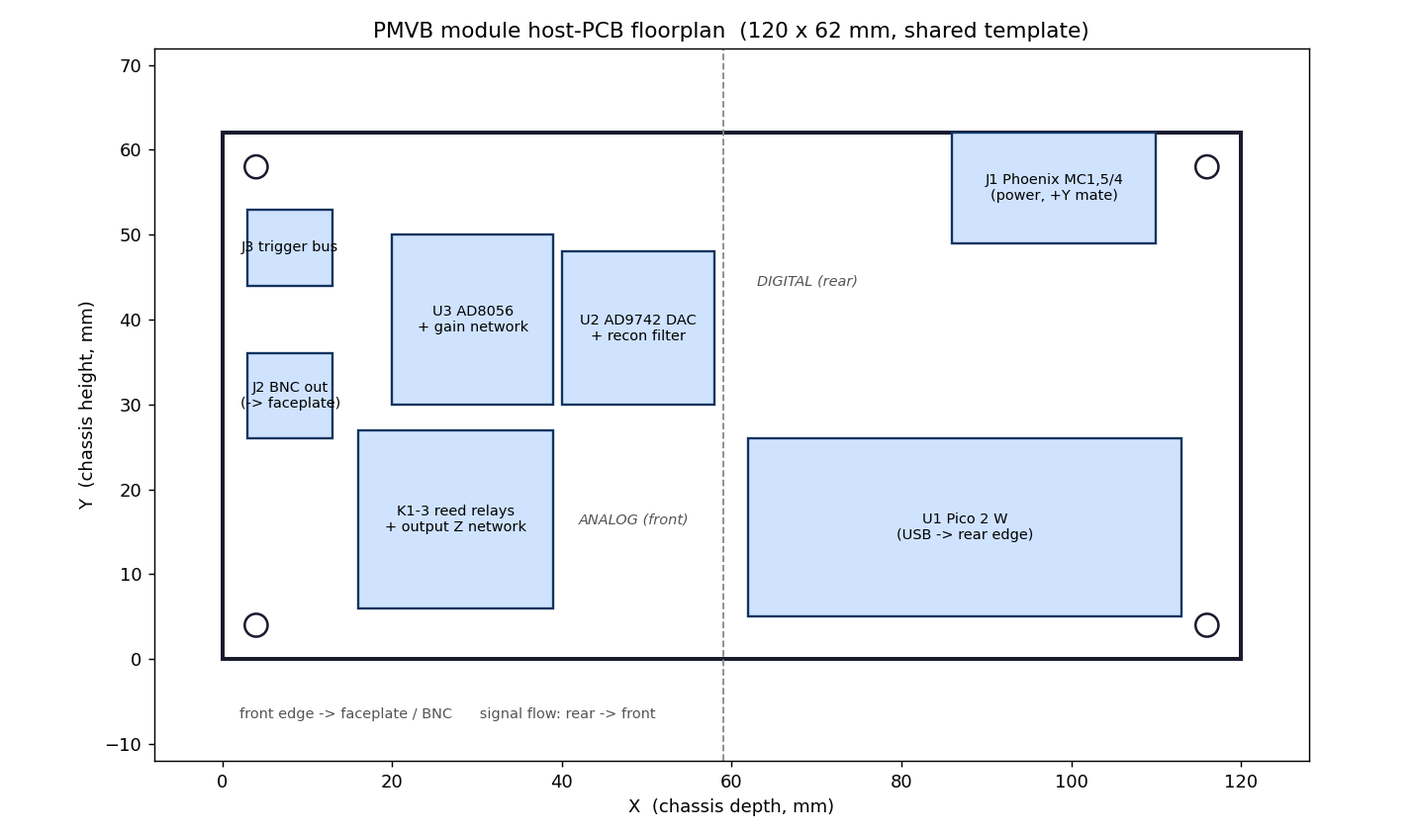
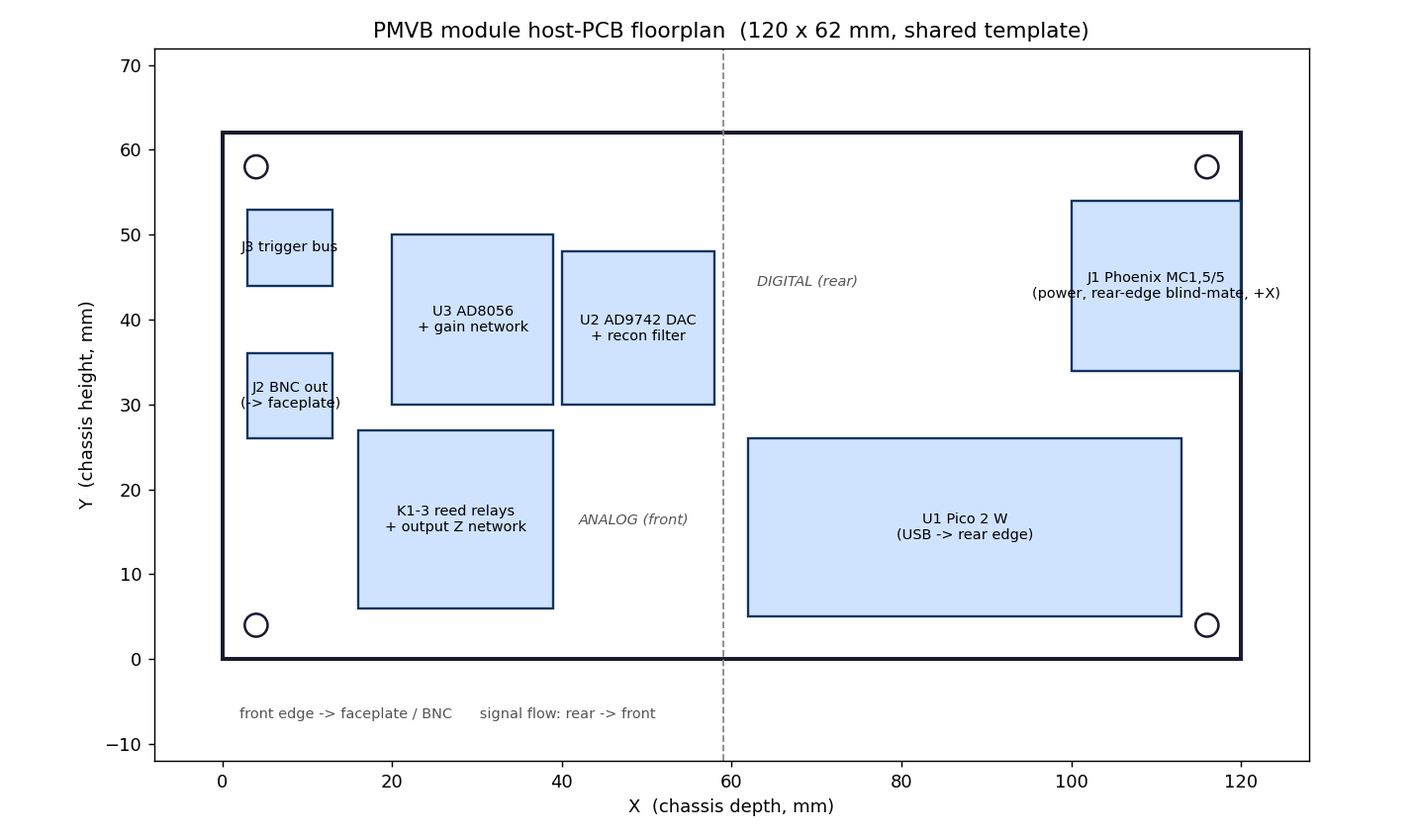
docs(1e): +3.3V from chassis Phoenix (5-pin), rear-edge blind-mate; doc v1.9
Power: DAC +3.3V (AVDD/DVDD) now from the chassis ATX rail via the GeeekPi
breakout on Phoenix pin 5, not the Pico 3V3_OUT (now unconnected). Decouples
the DAC analog supply from the Pico's switching regulator; FB1/FB2 unchanged.

Connector: 4-pin -> 5-pin MC 1,5/5-G-3,81 (1803303, Digi-Key 277-1209-ND;
plug MC 1,5/5-ST-3,81 / 1803604), relocated from top-edge drop-down to the
rear edge beside the USB for rearward blind-mate on insertion. Right-angle
unchanged. Pin order 1-5 = +5V, +12V, -12V, GND, +3.3V.

Propagated: PCB package (power table, interface spec, D3/D6, D1-D7 marked
resolved, status, v0.4->v0.5); module_pcb_outline.py (J1 to rear edge, DXF +
floorplan regenerated); design doc .md/.html (v1.8->v1.9); parts checklist
(5-pin 1803303); build guide (5-pin J1, Pico 3V3_OUT freed, +3V3 from J1.5).

Chassis follow-up (not in this commit, per scope): rework the back-wall
harness into a fixed rear-of-slot 5-rail blind-mate backplane.

Changed region(s): [[0.6462, 0.1538, 0.8923, 0.4615]]

diff --git a/docs/modules/Module_1E_Design_Document.html b/docs/modules/Module_1E_Design_Document.html
@@ -170,7 +170,7 @@ blockquote {
 </div>
 <h1 id="module-1e-function-generator-arbitrary-waveform-generator">Module 1E: Function Generator / Arbitrary Waveform Generator</h1>
 <h2 id="module-design-document">Module Design Document</h2>
-<p><strong>Version:</strong> 1.8 (June 2026, Figure 1E-6 reconstruction filter response (singly- vs doubly-terminated) added in section 1.5; former Figures 1E-6/1E-7 renumbered to 1E-7/1E-8) <strong>Module ID:</strong> 1E <strong>Tier:</strong> 1 <strong>Status:</strong> In Design <strong>Parent SDD section:</strong> 7.5.5 of the <a href="../system-design/System_Design_Document.html#module-1e-function-generator-arbitrary-waveform-generator">PMVB System Design Document</a></p>
+<p><strong>Version:</strong> 1.9 (June 2026, DAC +3.3 V supply moved from the Pico to the chassis Phoenix rail (J1.5); power connector now 5-pin rear-edge blind-mate - see PCB package sections 3 and 6) <strong>Module ID:</strong> 1E <strong>Tier:</strong> 1 <strong>Status:</strong> In Design <strong>Parent SDD section:</strong> 7.5.5 of the <a href="../system-design/System_Design_Document.html#module-1e-function-generator-arbitrary-waveform-generator">PMVB System Design Document</a></p>
 <hr />
 <h2 id="table-of-contents">Table of Contents</h2>
 <ul>
@@ -456,7 +456,7 @@ blockquote {
 <tbody>
 <tr><td>39</td><td>VSYS</td><td>5 V from chassis (USB-bus-powered via Pi 5 USB hub)</td></tr>
 <tr><td>38</td><td>GND</td><td>shared chassis ground</td></tr>
-<tr><td>36</td><td>3V3_OUT</td><td>for AD9742 AVDD/DVDD (after local LC filtering)</td></tr>
+<tr><td>36</td><td>3V3_OUT</td><td>not connected (DAC +3.3 V now from chassis Phoenix J1.5, not the Pico)</td></tr>
 </tbody>
 </table>
 <h3 id="ad9742-pinout-summary">AD9742 pinout summary</h3>
@@ -474,10 +474,10 @@ blockquote {
 <tr><td>21</td><td>IOUTB</td><td>25 Ω termination to AGND; reconstruction filter leg B input</td></tr>
 <tr><td>22</td><td>IOUTA</td><td>25 Ω termination to AGND; reconstruction filter leg A input</td></tr>
 <tr><td>23</td><td>RESERVED</td><td><strong>leave unconnected</strong> (per AD9742 datasheet Rev. C, do not tie to common or supply)</td></tr>
-<tr><td>24</td><td>AVDD</td><td>+3.3 V from Pico (through ferrite bead filter to AVDD)</td></tr>
+<tr><td>24</td><td>AVDD</td><td>+3.3 V from chassis (Phoenix J1.5) through ferrite bead filter to AVDD</td></tr>
 <tr><td>25</td><td>MODE</td><td>data-format strap: tie to DCOM for straight binary (this module), or to DVDD for twos complement. NOT a parallel/serial mode select.</td></tr>
 <tr><td>26</td><td>DCOM</td><td>digital ground</td></tr>
-<tr><td>27</td><td>DVDD</td><td>+3.3 V from Pico (through separate ferrite bead filter to DVDD)</td></tr>
+<tr><td>27</td><td>DVDD</td><td>+3.3 V from chassis (Phoenix J1.5) through separate ferrite bead filter to DVDD</td></tr>
 <tr><td>28</td><td>CLOCK</td><td>Pico GP12, sample clock latched on rising edge</td></tr>
 </tbody>
 </table>
@@ -604,7 +604,7 @@ awg.write('OUTP ON')
 <tr><td>Op-amp gain network resistors 1% 0805</td><td>Yageo RC0805FR-07 series</td><td>Digi-Key</td><td>(verify direct)</td><td>4</td><td>~$0.10</td><td>R_in1, R_in2, R_fb, R_ref</td></tr>
 <tr><td>Bypass cap 0.1 µF X7R 0603 50 V</td><td>Yageo CC0603KRX7R9BB104</td><td>Digi-Key</td><td>311-1366-1-ND (or equiv)</td><td>10</td><td>$0.08</td><td>per IC supply pin</td></tr>
 <tr><td>Bulk cap 10 µF X5R 0805 10 V</td><td>Yageo CC0805KKX5R8BB106 (or Murata GRM21BR71A106KA73L)</td><td>Digi-Key</td><td>(search direct)</td><td>4</td><td>(verify direct)</td><td>DAC, op-amp, +12V, -12V supply rails</td></tr>
-<tr><td>Ferrite bead 0805 ~600 Ω @ 100 MHz (FB1, FB2)</td><td>0805 ferrite bead</td><td>Digi-Key</td><td>(search direct)</td><td>2</td><td>(verify direct)</td><td>AVDD/DVDD supply filtering from Pico 3V3 (finding D4)</td></tr>
+<tr><td>Ferrite bead 0805 ~600 Ω @ 100 MHz (FB1, FB2)</td><td>0805 ferrite bead</td><td>Digi-Key</td><td>(search direct)</td><td>2</td><td>(verify direct)</td><td>AVDD/DVDD supply filtering from chassis +3.3 V (Phoenix J1.5; findings D3/D4)</td></tr>
 <tr><td>BNC panel-mount jack 50 Ω</td><td>Amphenol RF 031-5538</td><td>Digi-Key</td><td>031-5538</td><td>1</td><td>(verify direct)</td><td>front-panel output</td></tr>
 <tr><td>3D-printed enclosure</td><td>n/a</td><td>n/a</td><td>n/a</td><td>1</td><td>~$1</td><td>PETG print, ~10 g</td></tr>
 <tr><td>Hookup wire, headers, perfboard or custom PCB</td><td>various</td><td>various</td><td>various</td><td>n/a</td><td>TBD</td><td>full schematic in KiCad; PCB fab quote pending</td></tr>

diff --git a/hardware/library/module_pcb_outline.py b/hardware/library/module_pcb_outline.py
@@ -16,9 +16,10 @@ PCB-local coordinate frame (mm):
   X = chassis depth    0 = front edge (faceplate end)   120 = rear edge
   Y = chassis height   0 = bottom edge                   62 = top edge
 The PCB mounts vertically against the module-body cavity right wall; all
-components sit on the cavity-facing (left) copper. Connector positions follow
-chassis doc section 3.6. Outline size and connector zones are a v0 PROPOSAL
-to be co-designed with the v10 module-body STL - see the design package.
+components sit on the cavity-facing (left) copper. J1 Phoenix (5-position) sits
+at the rear edge beside the USB for rearward blind-mate on insertion. Outline
+size and PCB mounting are a proposal to co-design with the v10 module-body STL
+- see the design package.
 """
 
 import os
@@ -36,7 +37,7 @@ MOUNTS = [(MOUNT_INSET, MOUNT_INSET),
 
 # --- connector / block placement zones  (x0, y0, x1, y1, label) --------
 ZONES = [
-    (86.0, 49.0, 110.0, 62.0, "J1 Phoenix MC1,5/4\n(power, +Y mate)"),
+    (100.0, 34.0, 120.0, 54.0, "J1 Phoenix MC1,5/5\n(power, rear-edge blind-mate, +X)"),
     (62.0,  5.0, 113.0, 26.0, "U1 Pico 2 W\n(USB -> rear edge)"),
     (40.0, 30.0,  58.0, 48.0, "U2 AD9742 DAC\n+ recon filter"),
     (20.0, 30.0,  39.0, 50.0, "U3 AD8056\n+ gain network"),

diff --git a/hardware/modules/1E/Module_1E_PCB_Design_Package.md b/hardware/modules/1E/Module_1E_PCB_Design_Package.md
@@ -1,6 +1,6 @@
 # Module 1E PCB Design Package
 
-**Module:** 1E Function Generator / AWG **Version:** v0.4 (June 2026)
+**Module:** 1E Function Generator / AWG **Version:** v0.5 (June 2026)
 **Parent docs:** [Module 1E Design Document v1.7](../../../docs/modules/Module_1E_Design_Document.html),
 PMVB System Design Document section 7.5.5
 **Status:** all findings D1-D7 resolved (incl. the D2 filter synthesis and the D6 Phoenix P/N); KiCad project setup and schematic capture pending (you, in KiCad GUI). See `Module_1E_KiCad_Build_Guide.md`.
@@ -64,7 +64,7 @@ keeps the differential path balanced into the difference amplifier.
 
 **Resolved (June 2026):** a numerical 5th-order Butterworth synthesis was run against the real per-leg terminations. Source = the 25 ohm DAC termination; load = the op-amp's ~1 kohm input resistor (R4/R5), a 40:1 ratio that rules out a doubly-terminated ladder (it shows 6-11 dB of passband ripple). Each leg is therefore a **singly-terminated** 5th-order Butterworth: series inductors **0.22 uH / 0.68 uH / 0.22 uH** and shunt capacitors **820 pF** per leg (board total 4x 0.22 uH + 2x 0.68 uH + 4x 820 pF). Verified response: -3 dB at ~11 MHz, image rejection ~51 dB at 40 MHz (50 MSPS) and ~26 dB at 20 MHz (30 MSPS) - both meet spec; passband droop to 10 MHz is ~1.5 dB (worst ~2.3 dB at +/-5% parts), removed by the stored frequency-response calibration (design doc section 9.4). The cleaner doubly-terminated alternative (add a 25 ohm shunt load per leg for ~+/-0.5 dB flatness) was rejected: it halves the signal and needs op-amp gain 40, which drops the AD8056 closed-loop bandwidth to ~7.5 MHz, below the 10 MHz band. Values now carried in design doc sections 1.5/4/8.
 
-### D3 - Reed-relay coils run from the Phoenix +5 V rail
+### D3 - Reed-relay coils run from the Phoenix +5 V rail (RESOLVED)
 
 The design document specifies 5 V relay coils but does not say where the 5 V
 comes from. Two candidates: the Phoenix +5 V chassis rail, or the Pico's VBUS
@@ -73,11 +73,9 @@ comes from. Two candidates: the Phoenix +5 V chassis rail, or the Pico's VBUS
 **Decision:** Phoenix +5 V rail. It keeps the Pico's USB power budget clean
 (the Pico already streams DAC samples at 30-50 MSPS) and it matches the chassis
 architecture, where module power is delivered through the Phoenix connector.
-Consequence: Module 1E uses all four Phoenix pins (+5 V, +12 V, -12 V, GND),
-which is convenient because 1E is the board that locks the Phoenix interface
-spec for every other module.
+Consequence: Module 1E uses the Phoenix pins for +5 V, +12 V, -12 V, GND, and (as of the June 2026 revision) +3.3 V on a 5th pin for the DAC supply - so the connector is now the 5-position MC 1,5/5 (see D6 and section 6). 1E is the board that locks this interface for every other module.
 
-### D4 - AD9742 AVDD/DVDD fed through ferrite beads
+### D4 - AD9742 AVDD/DVDD fed through ferrite beads (RESOLVED)
 
 The design document calls for "local LC filtering" on the 3.3 V feed from the
 Pico to the DAC's AVDD and DVDD pins, decoupled separately. The realization is
@@ -85,10 +83,9 @@ one ferrite bead per rail (FB1 to AVDD, FB2 to DVDD) plus 0.1 uF and 10 uF
 decoupling. Ferrite bead plus capacitor is the standard practical form of that
 LC filter.
 
-**Note:** FB1 and FB2 are not in the design document BOM. Add them
-(2x ferrite bead, 0805, ~600 ohm at 100 MHz).
+**Resolved:** FB1 and FB2 (2x ferrite bead, 0805, ~600 ohm at 100 MHz) are now in the design-doc BOM. The 3.3 V they filter now comes from the chassis Phoenix rail (J1.5), not the Pico - see D3.
 
-### D5 - AD9742 pinout corrected against the datasheet
+### D5 - AD9742 pinout corrected against the datasheet (RESOLVED)
 
 RESOLVED. The AD9742 datasheet (Rev. C, Table 6, 28-lead SOIC/TSSOP) confirms
 the Module 1E Design Document's AD9742 pin table is wrong. The data bus (pins
@@ -123,18 +120,13 @@ of the build guide is the authoritative per-pin wiring contract.
 
 **Resolved:** the design document pin table (section 5) now carries this datasheet-correct pinout, so the two documents agree.
 
-### D6 - Phoenix header is right-angle = 1803293 (RESOLVED)
+### D6 - Phoenix is 5-pin right-angle 1803303, rear blind-mate (RESOLVED)
 
-The chassis architecture document mounts the module-side Phoenix header on the
-PCB top edge "pointing upward (+Z)", with the back-wall harness plug dropping
-"down onto this header from above". The host PCB mounts vertically (in the
-chassis Y-Z plane). For a plug to mate from +Z onto a header on a vertical PCB,
-the header must be a **right-angle** board header (mating axis in the plane of
-the PCB). (The naming here is counterintuitive and was misread in the first draft: 1803293 / MC 1,5/4-G-3,81 is in fact the **right-angle** part; the straight vertical variant is MCV 1,5/4-G-3,81 / 1803442.)
+The host PCB mounts vertically (in the chassis Y-Z plane). The connector is a **right-angle** board header (mating axis in the plane of the PCB). Naming is counterintuitive: in this family "MC ...-G" (no V) is the right-angle part and "MCV ...-G" is the straight vertical one. Two June 2026 changes supersede the original 4-pin top-drop scheme: (1) the +3.3 V rail moved onto the connector, so it is now **5-position**; (2) the header moves from the top edge to the **rear edge** beside the USB, mating rearward so it blind-mates onto a fixed rear-of-slot plug as the blade slides in (one insertion motion instead of slide-then-drop). The right-angle orientation is still correct: mating rearward is in the plane of the vertical board.
 
-**Decision (RESOLVED June 2026):** use Phoenix **MC 1,5/4-G-3,81, order no. 1803293** - verified via TME / Digi-Key / Octopart to be the right-angle / horizontal header (spatial orientation "angled 90 deg"), 8 A / 160 V, 4-pos 3.81 mm, THT. Mates with the harness plug MC 1,5/4-ST-3,81 (1803594). Digi-Key 277-1208-ND, ~$1.51 single-qty, in stock. The chassis BOM already lists 1803293, so no BOM part change is needed.
+**Decision (RESOLVED June 2026):** use Phoenix **MC 1,5/5-G-3,81, order no. 1803303** - the 5-position right-angle header (TME spec table "angled 90 deg", 5 pins, 8 A / 160 V, 3.81 mm, THT), Digi-Key 277-1209-ND, ~$1.84 single-qty, in stock. Harness plug: MC 1,5/5-ST-3,81, Phoenix 1803604 (Digi-Key 277-1164-ND). Pin order 1-5 = +5 V, +12 V, -12 V, GND, +3.3 V. (The 4-position 1803293 was the prior choice, before the +3.3 V rail and the blind-mate change.)
 
-**Action remaining:** correct the chassis document's description of 1803293 from "straight" to "right-angle (angled 90 deg)" - the listed part number is already correct, only the orientation wording was wrong. The footprint can now be locked; all 14 module PCBs inherit it (see section 6).
+**Chassis follow-up (tracked separately):** update the chassis doc's back-wall harness to (a) carry a 5th rail (+3.3 V from the GeeekPi breakout), (b) use the 5-position parts (header 1803303, plug 1803604), and (c) change from per-slot plugs dropped from above to fixed forward-facing plugs at the rear of each slot for blind-mate. The module-side footprint can be locked now; all 14 module PCBs inherit it (see section 6).
 
 ### D7 - Output impedance modes: drop 600 ohm, add high-Z (low-impedance source)
 
@@ -191,13 +183,11 @@ level summary follows.
 | `+12V` | Phoenix J1.2 | AD8056 V+ (U3.8), decoupling C9/C11 |
 | `-12V` | Phoenix J1.3 | AD8056 V- (U3.4), decoupling C10/C12 |
 | `GND` | Phoenix J1.4 | common return |
-| `+3V3` | Pico 3V3_OUT (U1.36) | DAC supply island via FB1/FB2, bulk C8/C15 |
+| `+3V3` | Phoenix J1.5 (chassis ATX 3.3 V via GeeekPi D-1188 breakout) | DAC supply island via FB1/FB2, bulk C8/C15 |
 | `AVDD` | FB1 from +3V3 | AD9742 AVDD (U2.24), decoupling C6/C16 |
 | `DVDD` | FB2 from +3V3 | AD9742 DVDD (U2.27), decoupling C7/C17 |
 
-The Pico is powered over its own micro-USB; VSYS and VBUS are not connected on
-the PCB. The Pico's 3V3_OUT is the only Pico power pin used by the board, and
-it feeds the DAC supply island only.
+The Pico is powered over its own micro-USB; VSYS and VBUS are not connected on the PCB. The DAC's +3V3 now comes from the Phoenix connector (J1.5, the chassis 3.3 V rail via the GeeekPi breakout), so the Pico's 3V3_OUT no longer feeds the board and is left unconnected. This decouples the DAC analog supply from the Pico's switching regulator. The Pico drives the parallel data bus at its own internal 3.3 V while the DAC DVDD is the chassis 3.3 V; with common GND and both near 3.3 V the logic levels have ample margin.
 
 ### Signal chain
 
@@ -255,7 +245,7 @@ These are the points worth working through before or during schematic capture.
 2. **AD9742 pinout (D5) - resolved.** Verified against the AD9742 datasheet
    Rev. C; the build guide and parts checklist carry the correct pin map.
    Only remaining action: patch the design document's own pin table to match.
-3. **Phoenix header style (D6) - resolved.** Right-angle = Phoenix 1803293 (MC 1,5/4-G-3,81), Digi-Key 277-1208-ND ~$1.51; it is already the chassis BOM part. The footprint can be locked.
+3. **Phoenix connector (D6) - resolved.** 5-position right-angle MC 1,5/5-G-3,81 (1803303, Digi-Key 277-1209-ND ~$1.84), rear-edge blind-mate, +3.3 V added on pin 5. Module footprint can be locked; the chassis harness redesign is a tracked follow-up.
 4. **PCB outline and mounting (section 5).** The 120 x 62 mm outline and the
    4x M2.5 hole pattern are a proposal. They must be co-designed with the v10
    module-body STL, which does not yet define PCB mounting bosses.
@@ -298,7 +288,7 @@ plane split under the DAC, joined at one point near the DAC ACOM/DCOM pins.
 
 | Ref | Connector | Position | Mating direction |
 |-----|-----------|----------|------------------|
-| J1 | Phoenix MC 1,5/4 power | top edge, rear corner | +Z (from above) |
+| J1 | Phoenix MC 1,5/5 power | rear edge, beside the USB | rearward (chassis +Y), blind-mate on insertion |
 | U1 micro-USB | Pico USB | rear edge | +Y (rearward, to USB hub) |
 | J2 / faceplate | BNC output | front edge | -X (out the faceplate) |
 
@@ -311,26 +301,21 @@ PCB and the future custom 4-rail distribution PCB must conform to it.
 
 | Property | Value |
 |----------|-------|
-| Connector family | Phoenix Contact MC 1,5 series, 3.81 mm pitch, 4 position |
-| Module-side part | Right-angle pluggable PCB header (see D6; P/N to confirm) |
-| Harness-side part | MC 1,5/4-ST-3,81 cable plug, Phoenix 1803594 |
+| Connector family | Phoenix Contact MC 1,5 series, 3.81 mm pitch, 5 position |
+| Module-side part | MC 1,5/5-G-3,81 right-angle PCB header, Phoenix 1803303 (Digi-Key 277-1209-ND) |
+| Harness-side part | MC 1,5/5-ST-3,81 cable plug, Phoenix 1803604 (Digi-Key 277-1164-ND) |
 | Pin 1 | +5 V |
 | Pin 2 | +12 V |
 | Pin 3 | -12 V |
 | Pin 4 | GND |
-| PCB location | Top edge, rear corner, on the shared outline |
-| Mating axis | Chassis +Z (harness plug drops on from above) |
-| Keep-out | Per `module_pcb_outline.dxf`, top-rear zone; clear of the rear-top M2.5 mounting hole |
+| Pin 5 | +3.3 V |
+| PCB location | Rear edge, beside the Pico USB, on the shared outline |
+| Mating axis | Rearward (chassis +Y) - blind-mates onto a fixed rear-of-slot plug as the blade slides in |
+| Keep-out | Per `module_pcb_outline.dxf`, rear-edge zone beside the USB; clear of the rear M2.5 mounting holes |
 
-Pin order matches the chassis back-wall harness (chassis doc 4.4). A module
-that does not need a given rail still passes that pin through the connector for
-uniformity; Module 1E happens to use all four. The keep-out in the shared
-outline was moved clear of the rear-top mounting hole, which the first-draft
-placement overlapped.
+Pin order matches the chassis back-wall harness (chassis doc 4.4), with the new +3.3 V on pin 5 so the original four-rail order is unchanged. A module that does not need a given rail still passes that pin through for uniformity; Module 1E uses all five. **Chassis follow-up:** the rearward blind-mate means the back-wall harness must change from per-slot plugs dropped on from above to fixed forward-facing plugs at the rear of each slot (the 5-rail distribution backplane, pulled forward from v1.1). That chassis-side rework is tracked separately; this package and the module PCB are specified for it.
 
-**Locking criterion:** once D6 (header style and P/N) is settled and the
-footprint exists, this table and the keep-out in `module_pcb_outline.dxf` are
-frozen. Changing them later means re-spinning every module PCB.
+**Locking criterion:** D6 is settled (5-pin 1803303, rear-edge blind-mate); once the footprint exists, this table and the keep-out in `module_pcb_outline.dxf` are frozen. Changing them later means re-spinning every module PCB.
 
 ---
 
@@ -400,6 +385,6 @@ against.
 
 ## 10. Status and next steps
 
-Done: all engineering findings D1 through D7 resolved, including the D2 filter synthesis and the D6 Phoenix P/N (1803293, right-angle); shared PCB outline and floorplan generated; Phoenix interface spec drafted; parts checklist and KiCad build guide authored; design-document inconsistencies caught and patched (gain, pinout, high-Z, filter values, ferrite beads).
+Done: all engineering findings D1 through D7 resolved. Latest revision (June 2026): the DAC +3.3 V now comes from the chassis Phoenix rail, the connector is the 5-position right-angle MC 1,5/5-G-3,81 (1803303), and it relocates to the rear edge for blind-mate on insertion. Shared PCB outline + floorplan generated (J1 now rear-edge); interface spec at 5-pin; parts checklist and KiCad build guide authored; design-document inconsistencies patched (gain, pinout, high-Z, filter values, ferrite beads, power source).
 
-Next, in rough order: confirm the PCB outline and mounting against the v10 module body; settle the Pico mount (headers vs direct-solder) and the J3 trigger-bus connector; fetch the five custom parts; build the KiCad project per the guide; capture the schematic; lay out the board. Per the README tracker, this closes "PCB design" and feeds into "PCB fab + assembly".
+Next, in rough order: the chassis back-wall harness blind-mate redesign (5-rail, fixed rear-of-slot plugs) is tracked as a follow-up; co-design the PCB mounting bosses with the v10 module body; settle the Pico mount (headers vs direct-solder) and the J3 trigger-bus connector; fetch the five custom parts; build the KiCad project per the guide; capture the schematic; lay out the board. Per the README tracker, this closes "PCB design" and feeds into "PCB fab + assembly".

diff --git a/docs/modules/Module_1E_Design_Document.md b/docs/modules/Module_1E_Design_Document.md
@@ -2,7 +2,7 @@
 
 ## Module Design Document
 
-**Version:** 1.8 (June 2026, Figure 1E-6 reconstruction filter response (singly- vs doubly-terminated) added in section 1.5; former Figures 1E-6/1E-7 renumbered to 1E-7/1E-8)
+**Version:** 1.9 (June 2026, DAC +3.3 V supply moved from the Pico to the chassis Phoenix rail (J1.5); power connector now 5-pin rear-edge blind-mate - see PCB package sections 3 and 6)
 **Module ID:** 1E
 **Tier:** 1
 **Status:** In Design
@@ -366,7 +366,7 @@ Firmware enforces mutually exclusive relay energizing.
 |---|---|---|
 | 39 | VSYS | 5 V from chassis (USB-bus-powered via Pi 5 USB hub) |
 | 38 | GND | shared chassis ground |
-| 36 | 3V3_OUT | for AD9742 AVDD/DVDD (after local LC filtering) |
+| 36 | 3V3_OUT | not connected (DAC +3.3 V now from chassis Phoenix J1.5, not the Pico) |
 
 ### AD9742 pinout summary
 
@@ -383,10 +383,10 @@ Firmware enforces mutually exclusive relay energizing.
 | 21 | IOUTB | 25 Ω termination to AGND; reconstruction filter leg B input |
 | 22 | IOUTA | 25 Ω termination to AGND; reconstruction filter leg A input |
 | 23 | RESERVED | **leave unconnected** (per AD9742 datasheet Rev. C, do not tie to common or supply) |
-| 24 | AVDD | +3.3 V from Pico (through ferrite bead filter to AVDD) |
+| 24 | AVDD | +3.3 V from chassis (Phoenix J1.5) through ferrite bead filter to AVDD |
 | 25 | MODE | data-format strap: tie to DCOM for straight binary (this module), or to DVDD for twos complement. NOT a parallel/serial mode select. |
 | 26 | DCOM | digital ground |
-| 27 | DVDD | +3.3 V from Pico (through separate ferrite bead filter to DVDD) |
+| 27 | DVDD | +3.3 V from chassis (Phoenix J1.5) through separate ferrite bead filter to DVDD |
 | 28 | CLOCK | Pico GP12, sample clock latched on rising edge |
 
 **Pinout source:** AD9742 datasheet Rev. C, Table 6 (28-Lead SOIC/TSSOP). The previous v1.1 of this table had pins 13–28 mis-assigned and listed pin 25 MODE as "tied to GND for parallel mode," which was a misreading; MODE is a data-format strap. See the PCB design package finding D5 (`hardware/modules/1E/Module_1E_PCB_Design_Package.md`) for the correction history.
@@ -533,7 +533,7 @@ Cross-referenced to Digi-Key (primary; Mouser was not accessible during this aud
 | Op-amp gain network resistors 1 % 0805 | Yageo RC0805FR-07 series | Digi-Key | (verify direct) | 4 | ~$0.10 | R_in1, R_in2, R_fb, R_ref |
 | Bypass cap 0.1 µF X7R 0603 50 V | Yageo CC0603KRX7R9BB104 | Digi-Key | 311-1366-1-ND (or equiv) | 10 | $0.08 | per IC supply pin |
 | Bulk cap 10 µF X5R 0805 10 V | Yageo CC0805KKX5R8BB106 (or Murata GRM21BR71A106KA73L) | Digi-Key | (search direct) | 4 | (verify direct) | DAC, op-amp, +12V, -12V supply rails |
-| Ferrite bead 0805 ~600 Ω @ 100 MHz (FB1, FB2) | 0805 ferrite bead | Digi-Key | (search direct) | 2 | (verify direct) | AVDD/DVDD supply filtering from Pico 3V3 (finding D4) |
+| Ferrite bead 0805 ~600 Ω @ 100 MHz (FB1, FB2) | 0805 ferrite bead | Digi-Key | (search direct) | 2 | (verify direct) | AVDD/DVDD supply filtering from chassis +3.3 V (Phoenix J1.5; findings D3/D4) |
 | BNC panel-mount jack 50 Ω | Amphenol RF 031-5538 | Digi-Key | 031-5538 | 1 | (verify direct) | front-panel output |
 | 3D-printed enclosure | n/a | n/a | n/a | 1 | ~$1 | PETG print, ~10 g |
 | Hookup wire, headers, perfboard or custom PCB | various | various | various | n/a | TBD | full schematic in KiCad; PCB fab quote pending |

diff --git a/hardware/modules/1E/Module_1E_KiCad_Build_Guide.md b/hardware/modules/1E/Module_1E_KiCad_Build_Guide.md
@@ -109,12 +109,13 @@ hierarchical-label declaration needed for them.
 The root sheet `module_1e.kicad_sch` carries the project metadata, the
 power input, and the sheet symbols. Concrete contents:
 
-- **J1** Phoenix MC 1,5/4 right-angle header (placeholder symbol from
-  `Connector_Phoenix_MC` until D6 P/N is fetched).
+- **J1** Phoenix MC 1,5/5-G-3,81 right-angle header (1803303), on the rear
+  edge beside the USB for rearward blind-mate.
   - Pin 1 -> `+5V` power flag.
   - Pin 2 -> `+12V` power flag.
   - Pin 3 -> `-12V` power flag.
   - Pin 4 -> `GND` power flag.
+  - Pin 5 -> `+3V3` power flag (DAC supply; chassis 3.3 V rail).
 - Five hierarchical sheet symbols (Pico, DAC, OpAmp, OutputSwitch, Trigger).
 - No other components. All sub-sheet signals enter and exit via sheet pins.
 
@@ -128,12 +129,11 @@ nets it uses, and any wiring notes you have to honor.
 
 ### 7.1 Pico (`Pico.kicad_sch`)
 
-- **Symbols:** U1 (Raspberry Pi Pico 2 W); C15 0.1 uF X7R 0603 close to
-  Pico 3V3_OUT pin as local bypass.
+- **Symbols:** U1 (Raspberry Pi Pico 2 W). The former C15 3V3_OUT bypass
+  moves to the J1 +3V3 entry (DAC sheet), since the Pico no longer feeds the DAC.
 - **Hierarchical labels OUT** (Pico drives them):
   `DB0`, `DB1`, ..., `DB11`, `DAC_CLK`,
-  `RELAY_50`, `RELAY_HIZ`, `RELAY_10K`,
-  `SYNC_OUT`, `+3V3` (passive).
+  `RELAY_50`, `RELAY_HIZ`, `RELAY_10K`, `SYNC_OUT`.
 - **Hierarchical labels IN** (Pico receives):
   `TRIG_IN`.
 - **Power:** `GND` on all eight Pico GND pins (3, 8, 13, 18, 23, 28, 33, 38).
@@ -144,16 +144,16 @@ nets it uses, and any wiring notes you have to honor.
   - Pin mapping for signals (from the design doc section 4):
     GP0..GP11 = DB0..DB11, GP12 = DAC_CLK, GP13 = RELAY_50,
     GP14 = RELAY_HIZ, GP15 = RELAY_10K, GP16 = SYNC_OUT, GP17 = TRIG_IN.
-  - Pico is USB-powered; the module PCB does not feed it. Only the
-    Pico's `3V3_OUT` (pin 36) exits the Pico sheet to feed the DAC supply
-    island.
+  - Pico is USB-powered; the module PCB does not feed it. Its `3V3_OUT`
+    (pin 36) is left unconnected - the DAC supply island is now fed by `+3V3`
+    from J1 pin 5 (chassis 3.3 V), not the Pico.
 
 ### 7.2 DAC (`DAC.kicad_sch`)
 
 - **Symbols:** U2 (AD9742); FB1, FB2 (ferrite beads to AVDD, DVDD);
   R1 (1.91 k 0.1 % FSADJ); R2, R3 (25 ohm 0.1 % IOUTA/IOUTB terminations);
   C1 (0.1 uF REFIO); C6, C7 (0.1 uF AVDD, DVDD bypass);
-  C8 (10 uF X5R 0805 bulk at +3V3 entry);
+  C8 (10 uF X5R 0805 bulk) + C15 (0.1 uF) at the +3V3 entry (from J1 pin 5);
   C16, C17 (second 0.1 uF AVDD, DVDD bypass);
   L1, L3 (0.22 uH filter A outer series), L2 (0.68 uH filter A mid series); L4, L6 (0.22 uH filter B outer series), L5 (0.68 uH filter B mid series);
   C2, C3 (820 pF C0G filter A shunt); C4, C5 (820 pF C0G filter B shunt).

diff --git a/hardware/modules/1E/Module_1E_Parts_Checklist.md b/hardware/modules/1E/Module_1E_Parts_Checklist.md
@@ -82,22 +82,20 @@ matching subfolder of `lib/PMVB_1E/`.
   impedance switch. Verify the four pin positions (two coil, two contact)
   against the Coto datasheet after import.
 
-### 5. Phoenix Contact MC 1,5/4-G-3,81 right-angle pluggable PCB header (1803293)
+### 5. Phoenix Contact MC 1,5/5-G-3,81 right-angle pluggable PCB header (1803303)
 
 - **Manufacturer:** Phoenix Contact
-- **MPN:** `1803293` (MC 1,5/4-G-3,81). RESOLVED per D6: this is the
-  right-angle / horizontal header (spatial orientation "angled 90 deg"),
-  verified via TME / Digi-Key / Octopart. Counterintuitive naming: the
-  *straight* vertical variant is MCV 1,5/4-G-3,81 (1803442); the no-V
-  1803293 is the right-angle one - and it is already the chassis BOM part.
-- **Distributor:** Digi-Key 277-1208-ND, ~$1.51 single-qty, in stock. Mates
-  with the harness plug MC 1,5/4-ST-3,81 (1803594).
-- **CSE:** <https://componentsearchengine.com/part-view/1803293/Phoenix%20Contact>
-- **Fetch:** symbol + footprint (right-angle, 3.81 mm pitch, 4-pos) + 3D STEP.
-- **Notes:** 8 A / 160 V, far inside the +/-12 V / few-hundred-mA budget. The
-  right-angle and vertical footprints are NOT interchangeable, so lock the
-  1803293 (right-angle) footprint before layout. You can start the schematic
-  with the generic 4-position MC 1,5 symbol as a placeholder.
+- **MPN:** `1803303` (MC 1,5/5-G-3,81). RESOLVED per D6: the 5-position
+  right-angle header (TME spec table "angled 90 deg", 5 pins, 8 A), now
+  carrying +3.3 V on pin 5 in addition to +5 V / +12 V / -12 V / GND. Same
+  "MC = right-angle" naming as the 4-pin; the straight variant is MCV.
+- **Distributor:** Digi-Key 277-1209-ND, ~$1.84 single-qty, in stock. Mates
+  with the harness plug MC 1,5/5-ST-3,81 (1803604, Digi-Key 277-1164-ND).
+- **CSE:** <https://componentsearchengine.com/part-view/1803303/Phoenix%20Contact>
+- **Fetch:** symbol + footprint (right-angle, 3.81 mm pitch, 5-pos) + 3D STEP.
+- **Notes:** mounts on the rear edge beside the USB for rearward blind-mate on
+  insertion. 8 A / 160 V. Start the schematic with the generic 5-position
+  MC 1,5 symbol as a placeholder; lock the 1803303 footprint before layout.
 
 ### Optional: Coilcraft 0805 chip wirewound inductors (filter L)
 
